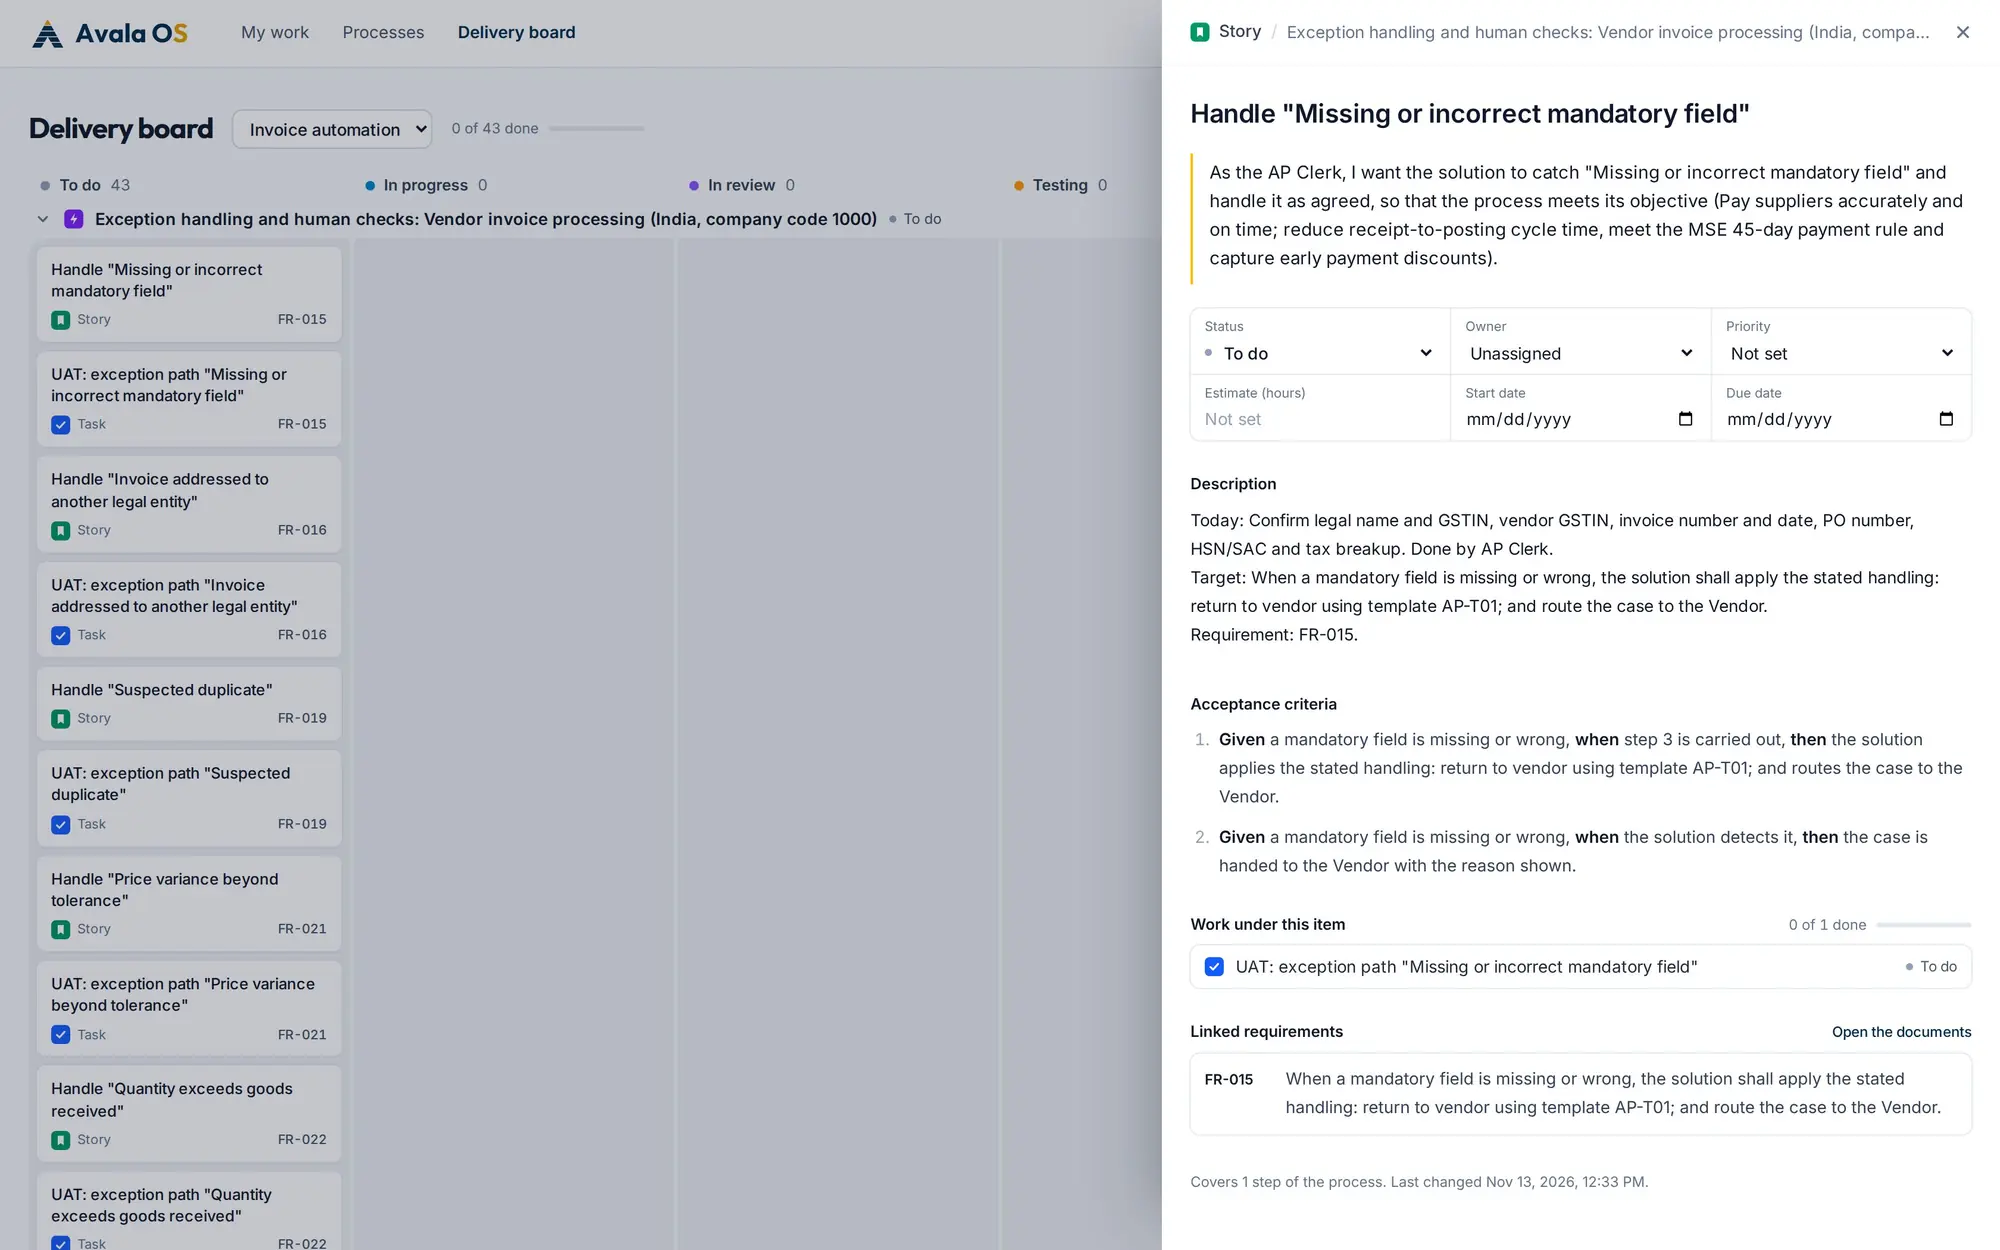
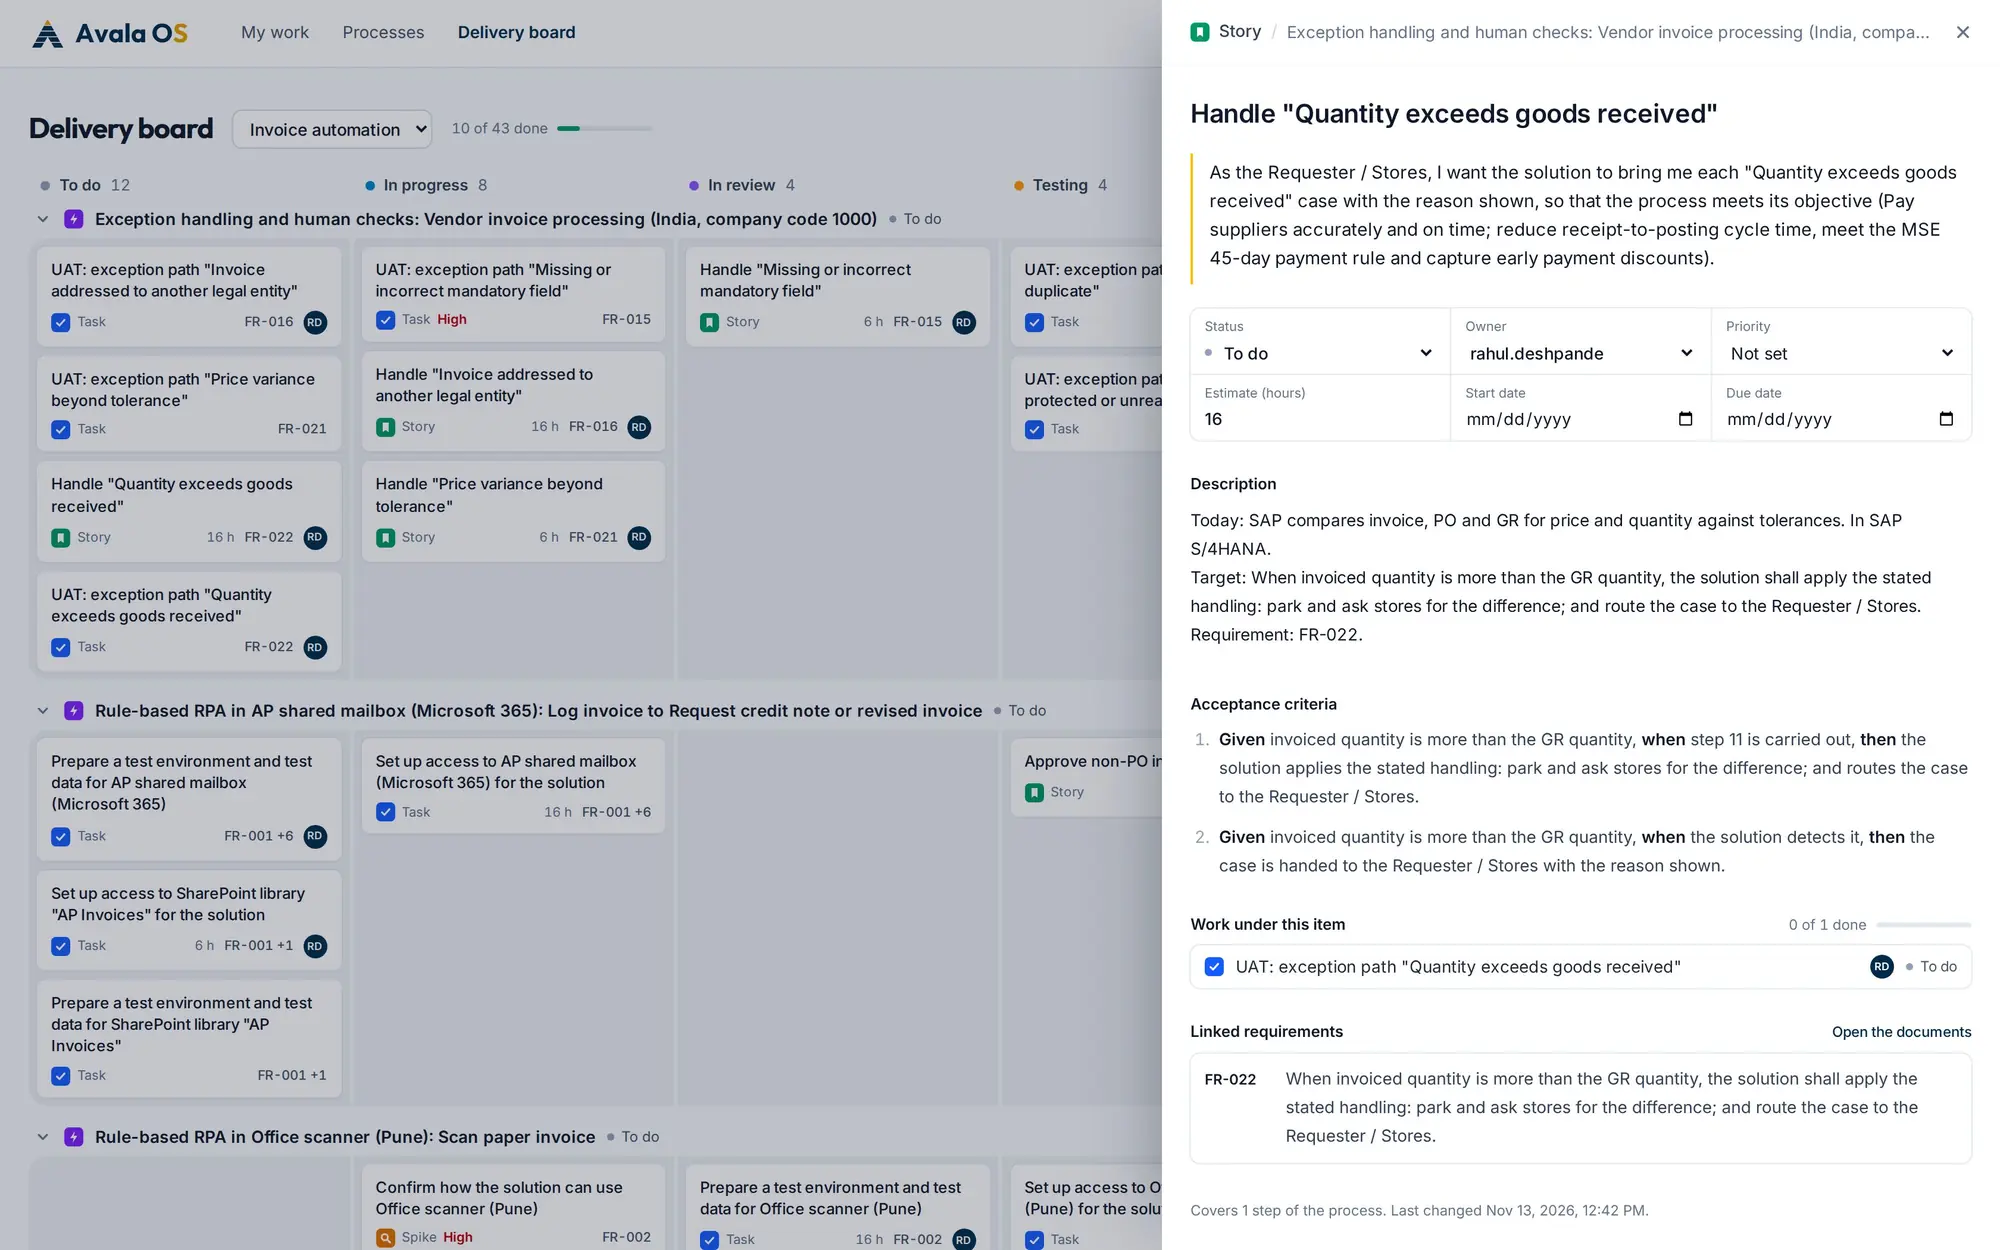
Homepage v2: livelier board and To-Be screens, larger proof images, phone zoom
Claude-Session: https://claude.ai/code/session_018NA3sBSiqpThqSWp6aYWFK

diff --git a/journey/home/HomePage.tsx b/journey/home/HomePage.tsx
@@ -34,7 +34,7 @@ const TOUR: { id: string; name: string; line: string; caption: string; shots: [S
     caption: 'Requirements, process, functional and solution documents and the flow maps are built from the same confirmed model, and download as Word.',
     shots: [
       { src: 'document', origin: '55% 60%', alt: 'The Documents screen: the process definition document with its contents list and Word download' },
-      { src: 'flows', origin: '30% 70%', alt: 'The Flows screen: the To-Be map drawn from the process model, one column per role' },
+      { src: 'flows', origin: '30% 70%', alt: 'The Flows screen: the To-Be map, each step coloured by how it will be done, one column per role' },
     ],
   },
   {
@@ -42,7 +42,7 @@ const TOUR: { id: string; name: string; line: string; caption: string; shots: [S
     caption: 'Epics, stories and tasks are proposed with acceptance criteria and requirement links. A person chooses what goes to the board.',
     shots: [
       { src: 'work-items', origin: '35% 60%', alt: 'The Work items screen: 6 epics, 15 stories and 23 tasks proposed, each linked to its requirements' },
-      { src: 'board', origin: '25% 40%', alt: 'The Delivery board with the confirmed work items in columns by status' },
+      { src: 'board', origin: '25% 40%', alt: 'The Delivery board part-way through delivery: work items in six status columns, grouped by epic' },
     ],
   },
   {
@@ -66,6 +66,10 @@ const CSS = `
 @keyframes tour-fill{to{transform:scaleX(1)}}
 [data-paused="true"] *{animation-play-state:paused !important}
 .shot-frame{border-radius:14px;overflow:hidden;background:#fff;box-shadow:0 0 0 1px rgba(15,23,42,.08),0 30px 60px -20px rgba(0,27,47,.35)}
+@media (max-width: 640px){
+  .tour-shot{transform:scale(1.7)}
+  @keyframes tour-zoom{from{transform:scale(1.7)}to{transform:scale(1.9)}}
+}
 @media (prefers-reduced-motion: reduce){
   .tour-a,.tour-b,.tour-fill{animation:none;opacity:1;transform:none}
   .tour-stack{aspect-ratio:auto !important}
@@ -130,7 +134,7 @@ function Tour() {
               <li key={s.id}>
                 <button type="button" aria-current={here ? 'step' : undefined} onClick={() => setStage(i)}
                   className={`w-full rounded-lg px-2 py-2 text-center transition-colors lg:px-3 lg:py-2.5 lg:text-left ${focus} focus-visible:outline-[#002C4B] ${here ? 'bg-white shadow-sm ring-1 ring-slate-200' : 'hover:bg-white/70'}`}>
-                  <span className={`block font-display text-sm font-semibold lg:text-lg ${here ? 'text-[#002C4B]' : 'text-slate-600'}`}>{s.name}</span>
+                  <span className={`block font-display text-xs font-semibold sm:text-sm lg:text-lg ${here ? 'text-[#002C4B]' : 'text-slate-600'}`}>{s.name}</span>
                   <span className="hidden text-sm text-slate-600 lg:block">{s.line}</span>
                   <span className={`mt-2 block h-1 overflow-hidden rounded-full ${here ? 'bg-slate-200' : 'bg-transparent'}`} aria-hidden="true">
                     {here && <span key={stage} className="tour-fill block h-full rounded-full" style={{ background: AMBER }} onAnimationEnd={() => setStage(n => (n + 1) % TOUR.length)} />}
@@ -165,7 +169,7 @@ const REASONS = [
   {
     title: 'The score is arithmetic, not an opinion',
     text: 'Every step gets a score out of 100 for each approach, worked out from fixed tables you can read. The same facts always give the same ranking. AI reads your sources, but it does not decide, and where rules are enough the answer is “AI unnecessary”.',
-    img: 'reason-score', w: 1700, h: 1020,
+    img: 'reason-score', w: 1700, h: 907,
     alt: 'The step-by-step table: each step with its recommended approach, score, next best approach and whether AI is needed',
   },
   {
@@ -222,7 +226,7 @@ export default function HomePage() {
           </div>
           <div className="lg:-mr-56 xl:-mr-40">
             <div className="shot-frame">
-              <img src={shot('assessment')} width={2000} height={1250} className="block h-auto w-full" alt="The AvalaOS assessment of a vendor invoice process: API-led integration recommended, 70% of steps fit automation, approaches ranked by score" />
+              <img src={shot('assessment')} width={2000} height={1250} className="block h-auto w-[170%] max-w-none sm:w-full" alt="The AvalaOS assessment of a vendor invoice process: API-led integration recommended, 70% of steps fit automation, approaches ranked by score" />
             </div>
           </div>
         </section>
@@ -246,12 +250,12 @@ export default function HomePage() {
             <h2 id="why-h" className="max-w-3xl font-display text-4xl font-semibold tracking-tight text-[#002C4B] sm:text-5xl">Built so you can defend the answer</h2>
             <div className="mt-14 space-y-20">
               {REASONS.map((r, i) => (
-                <div key={r.title} className="grid items-center gap-8 lg:grid-cols-2 lg:gap-16">
-                  <div className={i % 2 ? 'lg:order-2' : ''}>
+                <div key={r.title} className="grid items-center gap-8 lg:grid-cols-5 lg:gap-16">
+                  <div className={`lg:col-span-2 ${i % 2 ? 'lg:order-2' : ''}`}>
                     <h3 className="font-display text-3xl font-semibold tracking-tight text-slate-900">{r.title}</h3>
                     <p className="mt-4 max-w-xl text-lg leading-8 text-slate-700">{r.text}</p>
                   </div>
-                  <div className="shot-frame"><img src={shot(r.img)} width={r.w} height={r.h} loading="lazy" className="block h-auto w-full" alt={r.alt} /></div>
+                  <div className="shot-frame lg:col-span-3"><img src={shot(r.img)} width={r.w} height={r.h} loading="lazy" className="block h-auto w-[160%] max-w-none sm:w-full" alt={r.alt} /></div>
                 </div>
               ))}
             </div>
